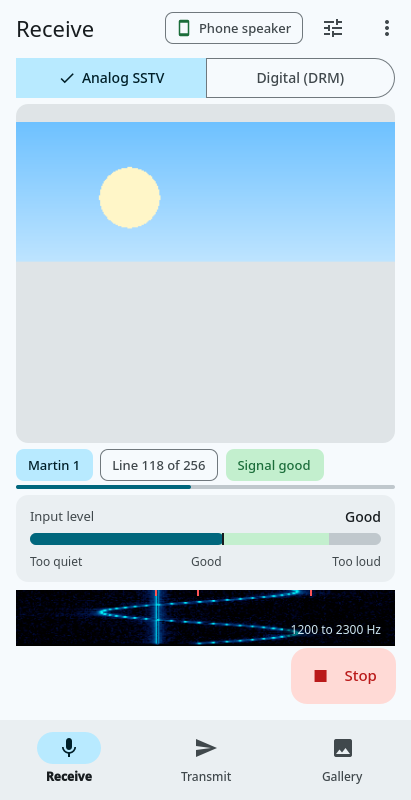
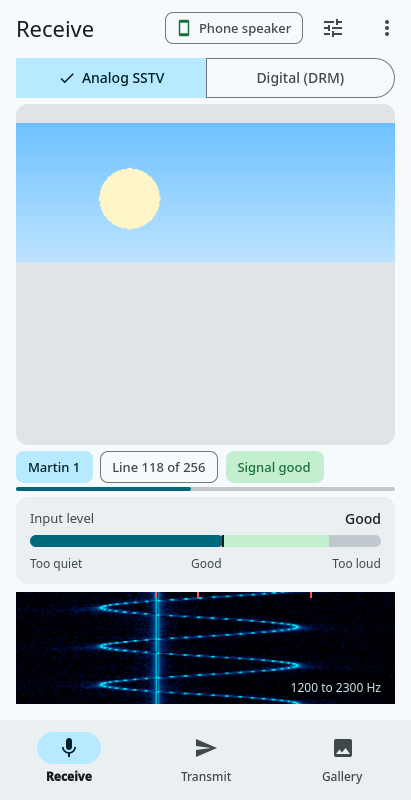
Android: no Listen/Stop button on Receive; the Listening / Stopped chip starts and stops the receiver, and the waterfall takes the room (#181).
The chip under the picture is the switch (a stop square on Listening, a play triangle on Stopped, "tap to stop / start" for the screen reader); it is not offered while a picture comes in (the notification's Stop still ends that). The waterfall is twice as tall on a phone (the picture keeps its size) and fills the right column on a tablet or a phone on its side. It is now drawn stretched over the whole strip (new ImageSurface.stretch) instead of cropped, so all of 200 to 2900 Hz show and the tone marks sit on their frequencies, and it keeps 128 rows instead of 64. tests/qmlui: new scene rx-listen (taps both chips, no button, the waterfall ends 16 dp above the foot); User's Guide and its two Receive screenshots updated.

Changed region(s): [[0.0292, 0.5625, 0.9635, 0.9062]]

diff --git a/documentation/userguide/pages/android.html b/documentation/userguide/pages/android.html
@@ -44,13 +44,13 @@ title, the <strong>route chip</strong> that says where the sound goes (<em>Phone
 <span class="ui">Decode a recording...</span> on Receive, <span class="ui">Transmit tools...</span> on Transmit, and on every screen <span class="ui">Settings</span>, <span class="ui">Help</span> (this guide) and <span class="ui">About</span>.</p>
 <p>Under the title of Receive and Transmit is one button with two parts: <span class="ui">Analog SSTV</span> and <span class="ui">Digital (DRM)</span>. It is the same choice on both screens; switching one switches the other.</p>
 <p>The <strong>Back</strong> button (or gesture) closes what is in front: a dialog or sheet, the picture viewer, a page of the settings, the selection in the gallery. On Receive with nothing open it sends the program to the background and
-<em>keeps it receiving</em>. To stop listening, press <span class="ui">Stop</span> on the Receive screen.</p>
+<em>keeps it receiving</em>. To stop listening, tap <span class="ui">Listening</span> under the picture on the Receive screen (the notification has a <span class="ui">Stop</span> button too).</p>
 
 <h2>Receive</h2>
 <ul>
-<li>The program <strong>listens by itself</strong> when it starts. The picture grows line by line as it arrives; the chips under it show the state (<em>Listening</em>) and the mode (<em>Mode: Auto</em>, or the mode being received, with the line count). A tap on <em>Mode</em> opens the list of modes: leave it on <span class="ui">Auto</span> and the program finds the mode itself, or pick one to listen for that mode only (the chip is then highlighted, and the choice is kept until you change it). It is not offered while a picture is coming in, nor for <span class="ui">Digital (DRM)</span>.</li>
-<li>The <strong>input level</strong> is a bar with a green target zone and words: <em>Too quiet</em>, <em>Good</em>, <em>Too loud</em>. Under it is a slim waterfall of the received sound.</li>
-<li><span class="ui">Listen</span> / <span class="ui">Stop</span> at the bottom starts and stops the receiver. The control with the sliders at the top right opens the <strong>receive options</strong>: save pictures automatically, and correct the slant of pictures from a radio whose clock is off. More of them are under <span class="ui">Settings &gt; Advanced &gt; Receive</span>.</li>
+<li>The program <strong>listens by itself</strong> when it starts. The picture grows line by line as it arrives; the chips under it show the state (<em>Listening</em>, or <em>Stopped</em>) and the mode (<em>Mode: Auto</em>, or the mode being received, with the line count). A tap on <em>Mode</em> opens the list of modes: leave it on <span class="ui">Auto</span> and the program finds the mode itself, or pick one to listen for that mode only (the chip is then highlighted, and the choice is kept until you change it). It is not offered while a picture is coming in, nor for <span class="ui">Digital (DRM)</span>.</li>
+<li>The <strong>input level</strong> is a bar with a green target zone and words: <em>Too quiet</em>, <em>Good</em>, <em>Too loud</em>. Under it is the waterfall of the received sound; it fills the rest of the screen.</li>
+<li>The first chip under the picture starts and stops the receiver: <span class="ui">Listening</span> (with a stop square) stops it, <span class="ui">Stopped</span> (with a play triangle) starts it again. It is there between pictures; while one is coming in, the notification's <span class="ui">Stop</span> still ends the receiving. The control with the sliders at the top right opens the <strong>receive options</strong>: save pictures automatically, and correct the slant of pictures from a radio whose clock is off. More of them are under <span class="ui">Settings &gt; Advanced &gt; Receive</span>.</li>
 <li>When a picture is complete, <em>Saved to Gallery</em> appears with <span class="ui">View</span>.</li>
 <li>If the microphone is blocked, a banner says so, with <span class="ui">Allow</span> to open the system settings; the receiver starts when you come back.</li>
 </ul>

diff --git a/src/qml/ui/ReceiveScreen.qml b/src/qml/ui/ReceiveScreen.qml
@@ -3,10 +3,14 @@ import QtQuick.Controls.Material
 import QtQuick.Layouts
 import QSSTV
 
-// Receive: the picture comes first, the signal is explained in words, one button listens or stops
+// Receive: the picture comes first, the signal is explained in words, the Listening / Stopped chip under the picture listens or stops (#181)
 Item {
     id: screen
     property bool wide: width >= 600 && width > height * 1.1   // a tablet held upright stacks the parts like a phone
+    // the waterfall takes the room the Listen button used to keep free. Narrow: twice its old height, or what is left when the picture would
+    // drop below its 120 dp (the picture is what gives on a tall screen); wide: the whole right column down to the foot of the chips under the picture
+    readonly property real spectrumHeight: wide ? Math.max(110, body.height - 12 - level.height - 8)
+                                                : Math.max(56, Math.min(112, body.height - status.height - 6 - 14 - level.height - 8 - 120))
     property alias optionsOpen: options.open
     property alias modesOpen: modes.open
     signal openRoute()
@@ -38,7 +42,7 @@ Item {
         id: body
         anchors.top: micBanner.visible ? micBanner.bottom : strip.bottom; anchors.topMargin: 6
         anchors.left: parent.left; anchors.right: parent.right; anchors.bottom: parent.bottom
-        anchors.bottomMargin: 80    // room for the button
+        anchors.bottomMargin: screen.wide ? 4 : Theme.margin    // the foot of the waterfall (wide: of the chips) ends 16 dp above the bar
 
         PictureCanvas {
             id: canvas
@@ -47,7 +51,7 @@ Item {
             y: 0
             width: screen.wide ? body.width * 0.58 - Theme.margin : body.width - 2 * Theme.margin
             height: screen.wide ? body.height - 6 - status.height - 12
-                                : Math.max(120, body.height - status.height - 6 - meterBlock.height - 8)
+                                : Math.max(120, body.height - status.height - 6 - 14 - meterBlock.height)   // 6 under the picture, 14 under the chips
         }
         StatusRow {
             id: status
@@ -70,6 +74,7 @@ Item {
             width: screen.wide ? body.width - x - Theme.margin : body.width - 2 * Theme.margin
             spacing: 8
             LevelMeter {
+                id: level
                 width: parent.width
                 level: RxController.level
                 zoneStart: RxController.zoneStart
@@ -77,18 +82,8 @@ Item {
                 word: RxController.levelWord
                 active: RxController.listening
             }
-            SpectrumStrip { width: parent.width; height: screen.wide ? 110 : 56 }
+            SpectrumStrip { width: parent.width; height: screen.spectrumHeight }
         }
-    }
-
-    ExtendedFab {
-        anchors.right: parent.right; anchors.rightMargin: Theme.margin
-        anchors.bottom: parent.bottom; anchors.bottomMargin: Theme.margin
-        text: RxController.listening ? qsTr("Stop") : qsTr("Listen")
-        icon: RxController.listening ? Icons.stop : Icons.mic
-        danger: RxController.listening
-        emphasized: !RxController.listening
-        onClicked: RxController.toggle()
     }
 
     ModeSheet {

diff --git a/src/qml/ui/StatusRow.qml b/src/qml/ui/StatusRow.qml
@@ -1,12 +1,25 @@
 import QtQuick
 import QSSTV
 
-// What the receiver is doing, as chips: listening / receiving, the mode that was detected, the line, the signal
+// What the receiver is doing, as chips: listening / receiving, the mode that was detected, the line, the signal.
+// The first chip is also the switch (#181): "Listening" stops the receiver, "Stopped" starts it. While a picture comes in it is not offered
 Flow {
     spacing: 8
     signal openModes()
-    Chip { visible: !RxController.listening; text: qsTr("Stopped"); tone: "warn" }
-    Chip { visible: RxController.listening && !RxController.receiving; icon: Icons.mic; text: qsTr("Listening"); tone: "good" }
+    Chip {
+        objectName: "stoppedChip"
+        visible: !RxController.listening
+        icon: Icons.play; text: qsTr("Stopped"); tone: "warn"
+        onClicked: RxController.toggle()
+        Accessible.name: qsTr("Stopped, tap to start")
+    }
+    Chip {
+        objectName: "listeningChip"
+        visible: RxController.listening && !RxController.receiving
+        icon: Icons.stop; text: qsTr("Listening"); tone: "good"
+        onClicked: RxController.toggle()
+        Accessible.name: qsTr("Listening, tap to stop")
+    }
     Chip { visible: RxController.receiving && RxController.modeText === ""; text: AppModel.digital ? qsTr("Receiving digital") : qsTr("Receiving"); tone: "selected" }
     Chip { visible: RxController.modeText !== ""; text: RxController.modeText; tone: "selected" }
     Chip {

diff --git a/src/qml/ui/PictureCanvas.qml b/src/qml/ui/PictureCanvas.qml
@@ -33,7 +33,7 @@ Rectangle {
             horizontalAlignment: Text.AlignHCenter
             wrapMode: Text.WordWrap
             text: canvas.listening ? qsTr("Hold the phone near the radio's speaker. A picture starts by itself when a signal arrives.")
-                                   : qsTr("Press Listen to start the receiver.")
+                                   : qsTr("Tap Stopped, below the picture, to start the receiver.")
             color: Theme.surfaceVariantOn
             font.pixelSize: Theme.sp(14)
         }

diff --git a/src/qml/ui/SpectrumStrip.qml b/src/qml/ui/SpectrumStrip.qml
@@ -7,10 +7,11 @@ Rectangle {
     radius: Theme.radius
     color: Theme.waterfallBackground
     clip: true
+    objectName: "spectrumStrip"
     ImageSurface {
         anchors.fill: parent
         source: 1
-        fill: true
+        stretch: true   // all of 200 to 2900 Hz across the width, whatever the height (the markers and the caption count on it)
         tint: Theme.night   // the waterfall is red in Night, whatever is chosen for the pictures
         revision: RxController.waterfallRevision
     }

diff --git a/tests/qmlui/shot.cpp b/tests/qmlui/shot.cpp
@@ -325,7 +325,7 @@ int main(int argc, char **argv)
       // the receiver does not run here: tell the screens what a running one would
       rx->setTestListening(scene == "stopped" ? 0 : 1);
       rx->setTestLevel(scene == "quiet" ? 0.1 : scene == "loud" ? 0.97 : 0.55);
-      feedWaterfall(60);
+      feedWaterfall(140);   // more rows than the waterfall keeps (128): it is full
       if (scene == "receiving" || scene == "done" || scene == "options")
         {
           const int w = 320, h = 256;
@@ -1188,6 +1188,56 @@ int main(int argc, char **argv)
           rx->setMode(-1);
           if (rx->mode() != -1 || rx->modeName() != QStringLiteral("Auto") || int(sstvModeIndexRx) != 0) fail("Auto did not come back");
           printf("  mode  Auto -> %s -> Auto\n", qPrintable(QString(SSTVTable[M1].name)));
+        }
+      if (scene == "rx-listen")
+        {
+          // the Listening / Stopped chip under the picture is the start / stop switch (#181): no button at the bottom, the waterfall reaches down
+          auto fail = [&](const char *what) {fprintf(stderr, "FAIL: rx-listen: %s\n", what); exitCode = 1;};
+          QQuickItem *r = findItem(content, "receiveScreen");
+          if (!r) fail("no receiveScreen item");
+          else
+            {
+              auto tap = [&](QQuickItem *it) {QTest::mouseClick(win, Qt::LeftButton, {}, it->mapToScene(QPointF(it->width() / 2, it->height() / 2)).toPoint()); QTest::qWait(300);};
+              auto shown = [&](const char *name) {QQuickItem *it = findShown(r, name); return it && it->isVisible();};
+              std::function<bool(QQuickItem *)> hasFab = [&](QQuickItem *it) {
+                if (it->isVisible() && QString::fromLatin1(it->metaObject()->className()).startsWith("ExtendedFab")) return true;
+                for (QQuickItem *c : it->childItems()) if (hasFab(c)) return true;
+                return false;
+              };
+              qmlUi::rxLine(0);   // listening and idle (no picture coming in), whatever the scene before left
+              qmlUi::rxImageEnded();
+              qmlUi::rxStatus(false, "Listening");
+              rx->setTestListening(1);
+              QTest::qWait(300);
+              if (hasFab(r)) fail("there is still a button at the bottom of Receive");
+              if (!shown("listeningChip") || shown("stoppedChip")) fail("idle: the Listening chip is not the only one shown");
+              if (QQuickItem *chip = findItem(r, "listeningChip")) tap(chip);
+              if (rx->listening() || !shown("stoppedChip") || shown("listeningChip")) fail("a tap on Listening did not stop (Stopped should show)");
+              if (QQuickItem *chip = findItem(r, "stoppedChip")) tap(chip);
+              if (!rx->listening() || !shown("listeningChip") || shown("stoppedChip")) fail("a tap on Stopped did not start (Listening should show)");
+              // a picture coming in: the chips that say what it is take the row, and the switch is not offered
+              rxWidgetPtr->getImageViewerPtr()->createImage(QSize(320, 256), QColor(16, 20, 28), true);
+              qmlUi::rxImageStarted(320, 256);
+              qmlUi::rxStatus(false, "Receiving Martin 1");
+              qmlUi::rxLine(100);
+              QTest::qWait(300);
+              if (!rx->receiving()) fail("the test picture is not being received");
+              if (shown("listeningChip") || shown("stoppedChip")) fail("the switch is offered while a picture comes in");
+              qmlUi::rxLine(0);
+              qmlUi::rxImageEnded();
+              qmlUi::rxStatus(false, "Listening");
+              QTest::qWait(300);
+              // the waterfall ends 16 dp above the bar (narrow) or level with the foot of the chips under the picture (wide)
+              QQuickItem *strip = findItem(r, "spectrumStrip");
+              if (!strip) fail("no spectrumStrip item");
+              else
+                {
+                  const qreal bottom = strip->mapToItem(r, QPointF(0, strip->height())).y(), room = r->height() - bottom;
+                  printf("  waterfall %.0f x %.0f dp, its foot %.1f dp above the foot of the screen\n", strip->width(), strip->height(), room);
+                  if (room < 15.5) fail("the waterfall runs lower than 16 dp above the foot of the screen");
+                  if (room > 17.5) fail("the waterfall does not reach down to 16 dp above the foot of the screen");
+                }
+            }
         }
       if (scene == "rx-mode-fixed" || scene == "rx-modes" || scene == "rx-modes-fixed")
         {

diff --git a/src/qml/imagesurface.h b/src/qml/imagesurface.h
@@ -16,6 +16,7 @@ class ImageSurface : public QQuickPaintedItem
   Q_PROPERTY(int source READ source WRITE setSource NOTIFY sourceChanged)        //!< 0 the received picture, 1 the waterfall, 2 the picture to transmit
   Q_PROPERTY(int revision READ revision WRITE setRevision NOTIFY revisionChanged)
   Q_PROPERTY(bool fill READ fill WRITE setFill NOTIFY fillChanged)               //!< cover the item (crop) instead of fitting inside it
+  Q_PROPERTY(bool stretch READ stretch WRITE setStretch NOTIFY stretchChanged)   //!< fill the whole item, the aspect ratio not kept (the waterfall: all of its frequencies, whatever the height)
   Q_PROPERTY(bool empty READ empty NOTIFY revisionChanged)                       //!< there is nothing to paint
   Q_PROPERTY(qreal paintedWidth READ paintedWidth NOTIFY paintedChanged)         //!< the size the picture is drawn at inside the item (as Image has), 0 without a picture
   Q_PROPERTY(qreal paintedHeight READ paintedHeight NOTIFY paintedChanged)
@@ -30,6 +31,8 @@ public:
   void setRevision(int r);
   bool fill() const {return m_fill;}
   void setFill(bool f);
+  bool stretch() const {return m_stretch;}
+  void setStretch(bool s);
   bool empty() const;
   qreal paintedWidth() const {return painted().width();}
   qreal paintedHeight() const {return painted().height();}
@@ -44,6 +47,7 @@ signals:
   void sourceChanged();
   void revisionChanged();
   void fillChanged();
+  void stretchChanged();
 
 protected:
   void geometryChange(const QRectF &newGeometry,const QRectF &oldGeometry) override;
@@ -54,6 +58,7 @@ private:
   int m_source=0;
   int m_revision=0;
   bool m_fill=false;
+  bool m_stretch=false;
   bool m_tint=false;
   QImage m_tinted;          // the picture in red, kept until the next revision
   int m_tintedRevision=-1;

diff --git a/src/qml/imagesurface.cpp b/src/qml/imagesurface.cpp
@@ -25,6 +25,7 @@ QSizeF ImageSurface::painted() const
 {
   const QImage &im=image();
   if(im.isNull() || width()<1 || height()<1) return QSizeF(0,0);
+  if(m_stretch) return QSizeF(width(),height());
   return QSizeF(im.size()).scaled(QSizeF(width(),height()),m_fill ? Qt::KeepAspectRatioByExpanding : Qt::KeepAspectRatio);
 }
 
@@ -59,6 +60,15 @@ void ImageSurface::setFill(bool f)
   if(f==m_fill) return;
   m_fill=f;
   emit fillChanged();
+  emit paintedChanged();
+  update();
+}
+
+void ImageSurface::setStretch(bool s)
+{
+  if(s==m_stretch) return;
+  m_stretch=s;
+  emit stretchChanged();
   emit paintedChanged();
   update();
 }
@@ -108,7 +118,7 @@ void ImageSurface::paint(QPainter *painter)
   if(im.isNull() || width()<1 || height()<1) return;
   painter->setRenderHint(QPainter::SmoothPixmapTransform,true);
   const QSizeF target(width(),height());
-  QSizeF drawn=QSizeF(im.size()).scaled(target,m_fill ? Qt::KeepAspectRatioByExpanding : Qt::KeepAspectRatio);
+  QSizeF drawn=m_stretch ? target : QSizeF(im.size()).scaled(target,m_fill ? Qt::KeepAspectRatioByExpanding : Qt::KeepAspectRatio);
   const QRectF r((target.width()-drawn.width())/2,(target.height()-drawn.height())/2,drawn.width(),drawn.height());
   painter->setClipRect(QRectF(QPointF(0,0),target));
   painter->drawImage(r,im);

diff --git a/src/qml/waterfall.h b/src/qml/waterfall.h
@@ -15,7 +15,7 @@ public:
   static constexpr int lowHz=200;
   static constexpr int highHz=2900;
   static constexpr int columns=400;
-  static constexpr int rows=64;
+  static constexpr int rows=128;   //!< the strip is about twice as tall as it was (#181): about the same dp per row, twice the history
 
   Waterfall();
   //! the FFT of the receiver: fftLength points at samplingRate Hz

diff --git a/src/qml/rxcontroller.cpp b/src/qml/rxcontroller.cpp
@@ -136,6 +136,7 @@ void RxController::stop()
 
 void RxController::toggle()
 {
+  if(m_testListening>=0) {setTestListening(m_listening ? 0 : 1); return;}   // the screenshot harness has no receiver to start or stop: it says what one would do
   if(m_listening) stop(); else start();
 }
 
